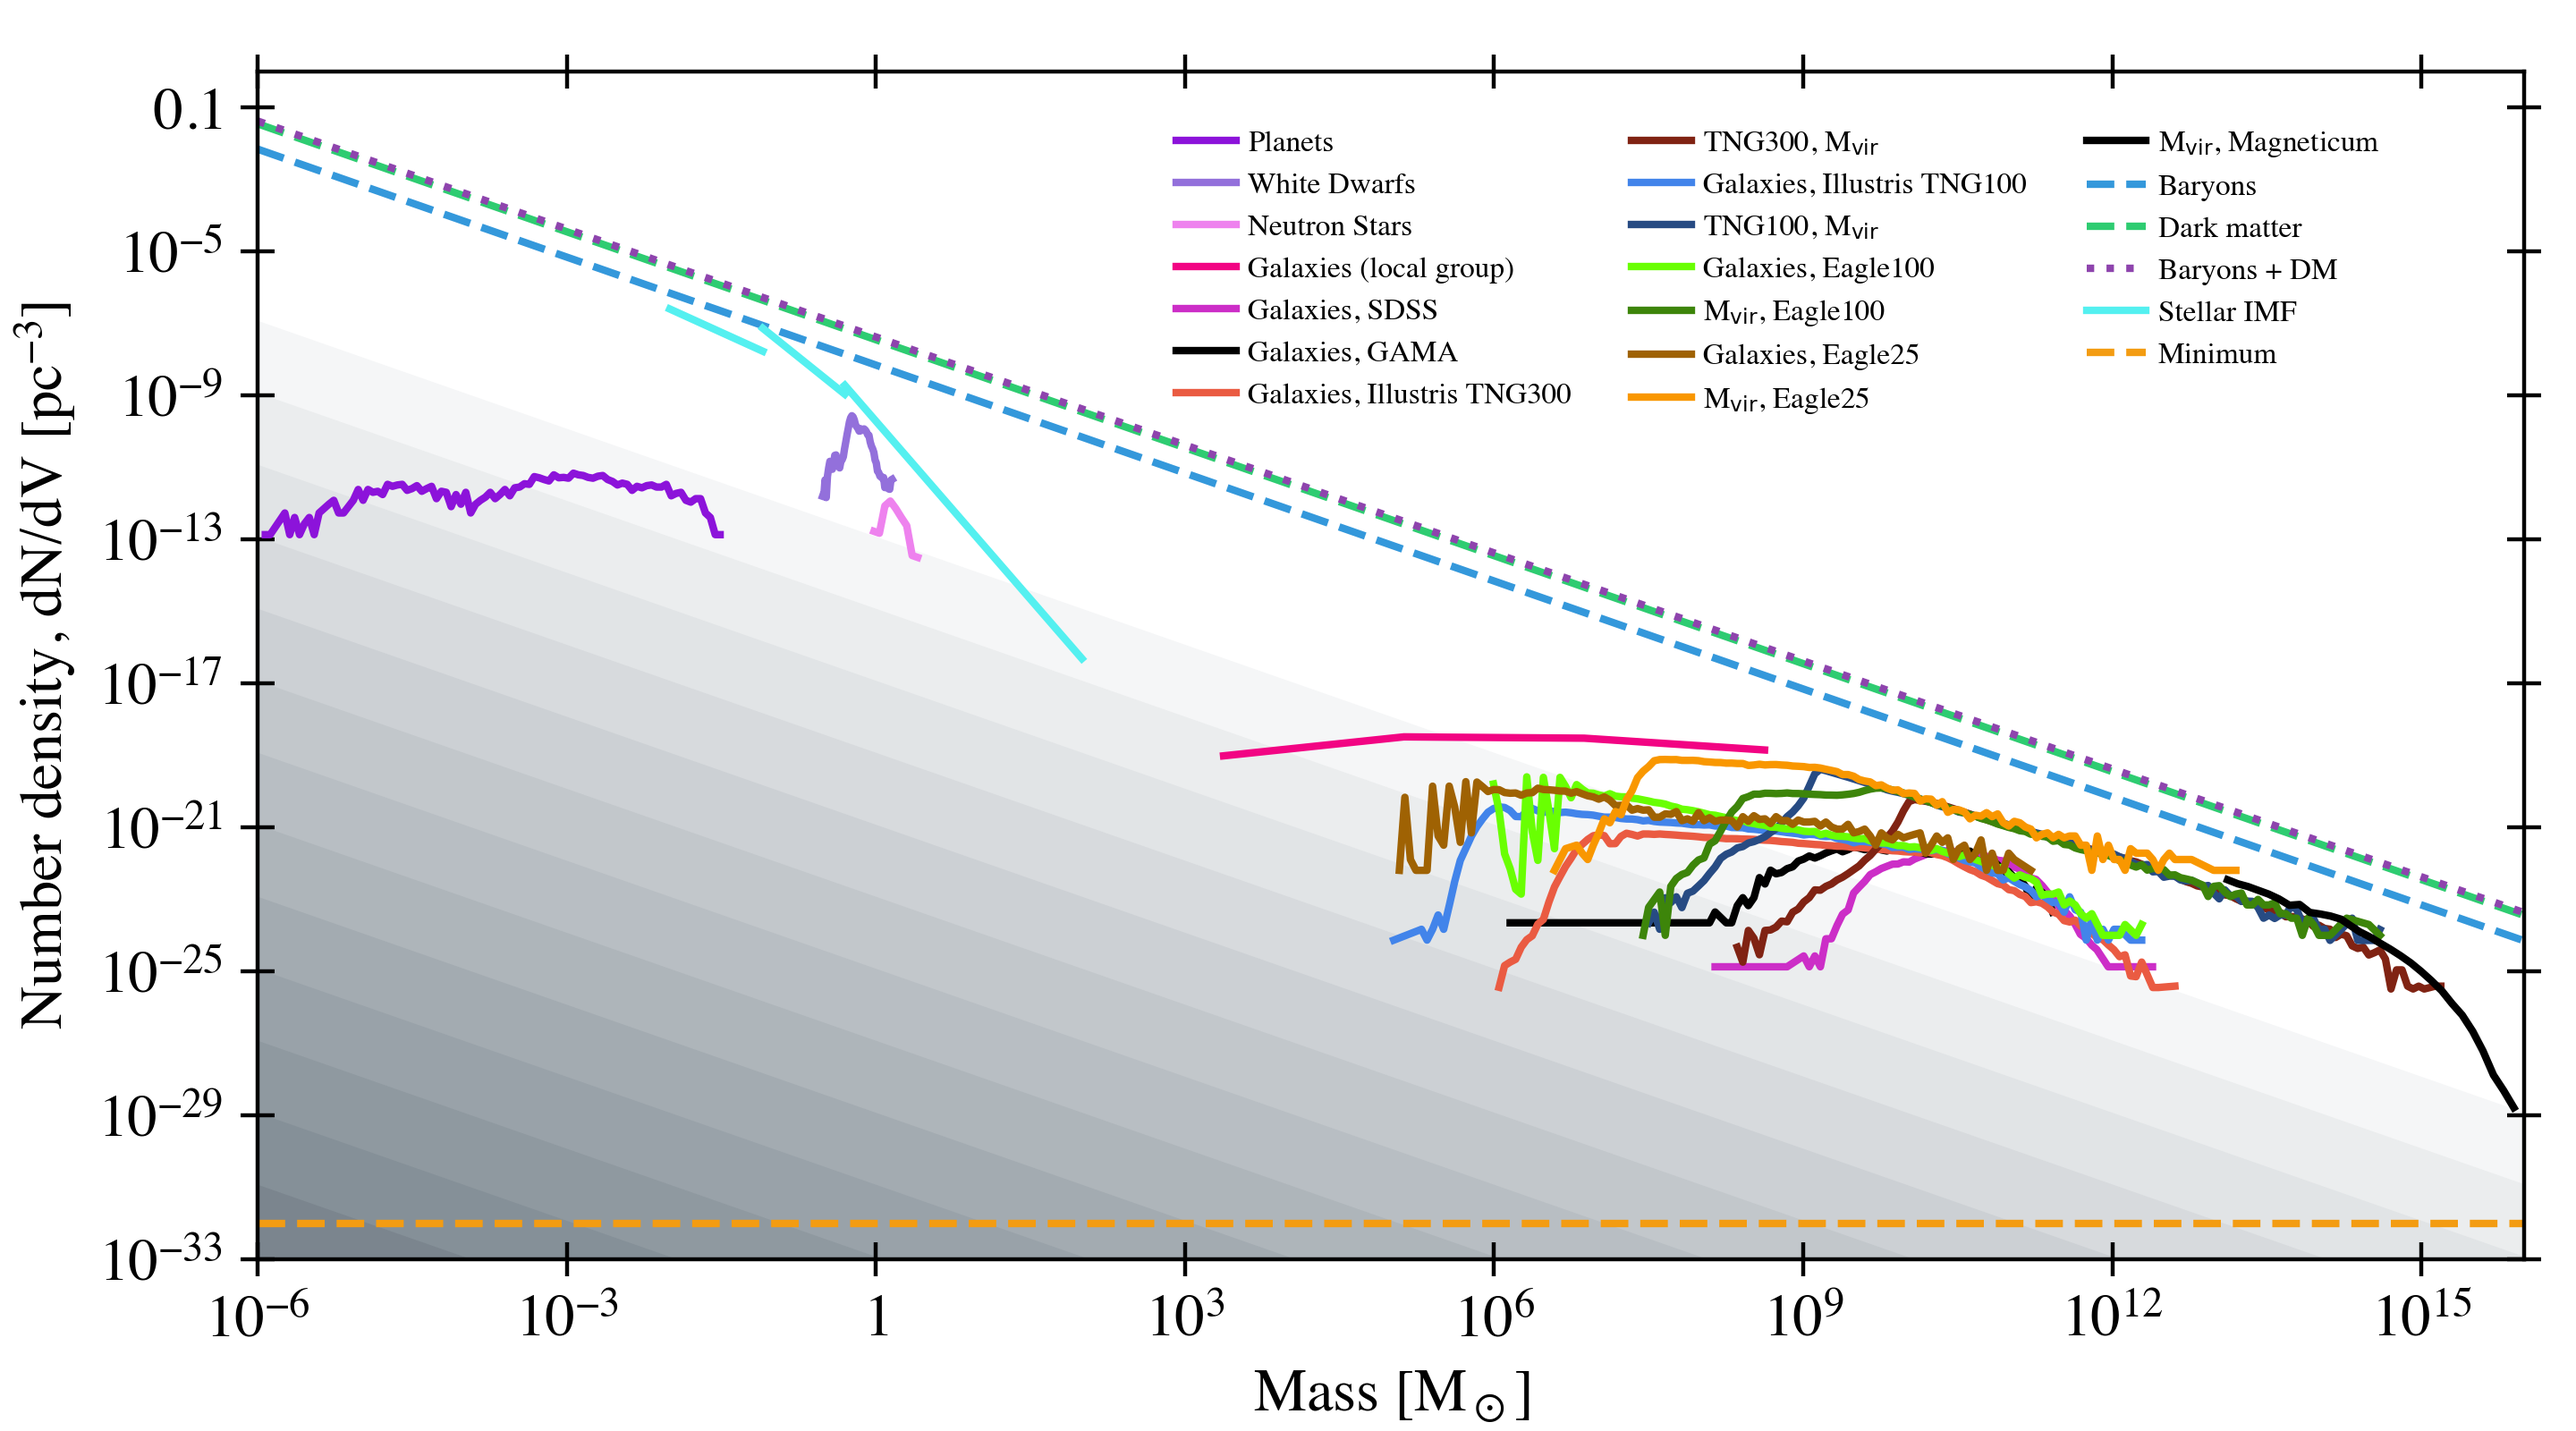
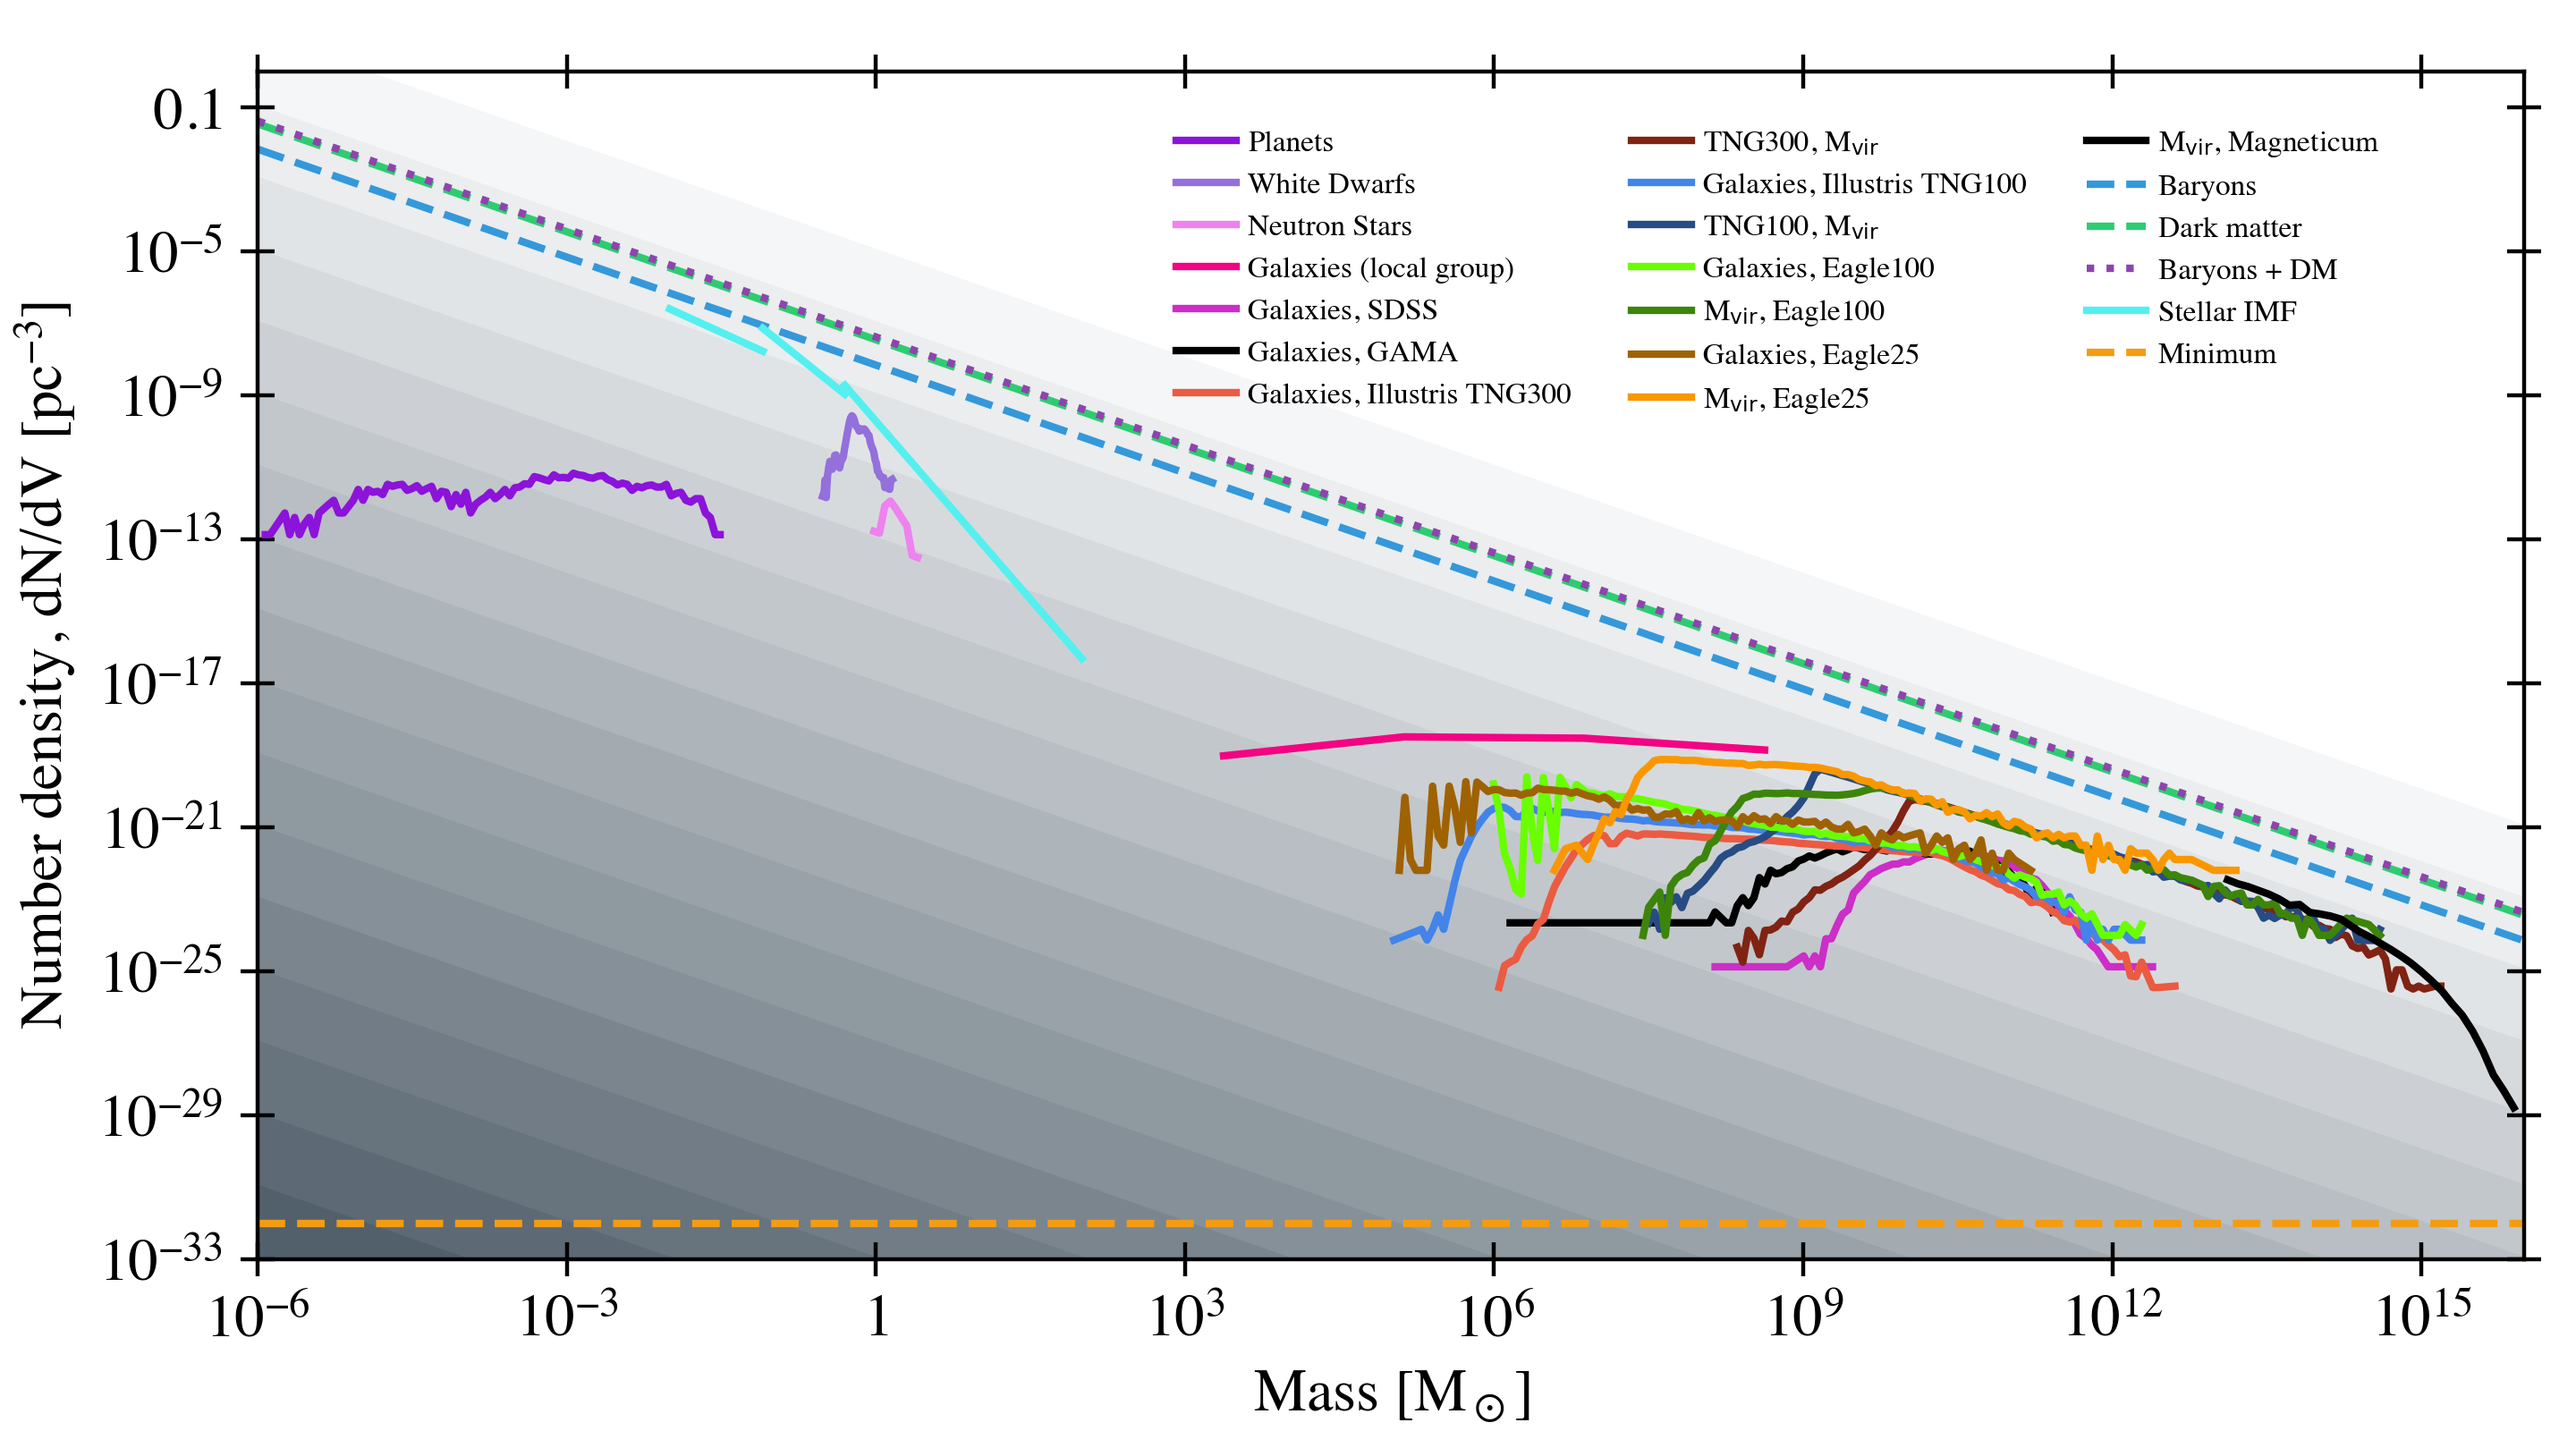
update dndv plot

diff --git a/figures/dndv_plot.py b/figures/dndv_plot.py
@@ -47,7 +47,7 @@ ylo, yhi = 1e-33, 1e0
 M_all = np.array([xlo, xhi])
 #M_all = np.logspace(xlo, xhi, 500)
 
-plotBackground(ax1, xhi*1e4, ylo, '#011627')
+plotBackground(ax1, xhi*1e12, ylo, '#011627')
 
 ax1.set_xscale('log')
 ax1.set_yscale('log')
@@ -246,6 +246,11 @@ plt.axhline(nmin, ls='--', c='#F39C12', label='Minimum')
 #ax1.text(.83, .95, 'Theory', transform=ax1.transAxes, fontsize=8, color='k')
 handles, labels = ax1.get_legend_handles_labels()
 print('labels',labels)
+'''
+reorder = [0, 1, 2, 3, 4, 5]
+handles = [handles[i] for i in reorder]
+labels = [labels[i] for i in reorder]
+'''
 #labels, handles = zip(*sorted(zip(labels, handles), key=lambda t: t[0]))
 plt.legend(handles, labels, loc=[.4,.7], bbox_transform=ax1.transAxes, ncol=3, fontsize=6)
 #plt.tight_layout()
